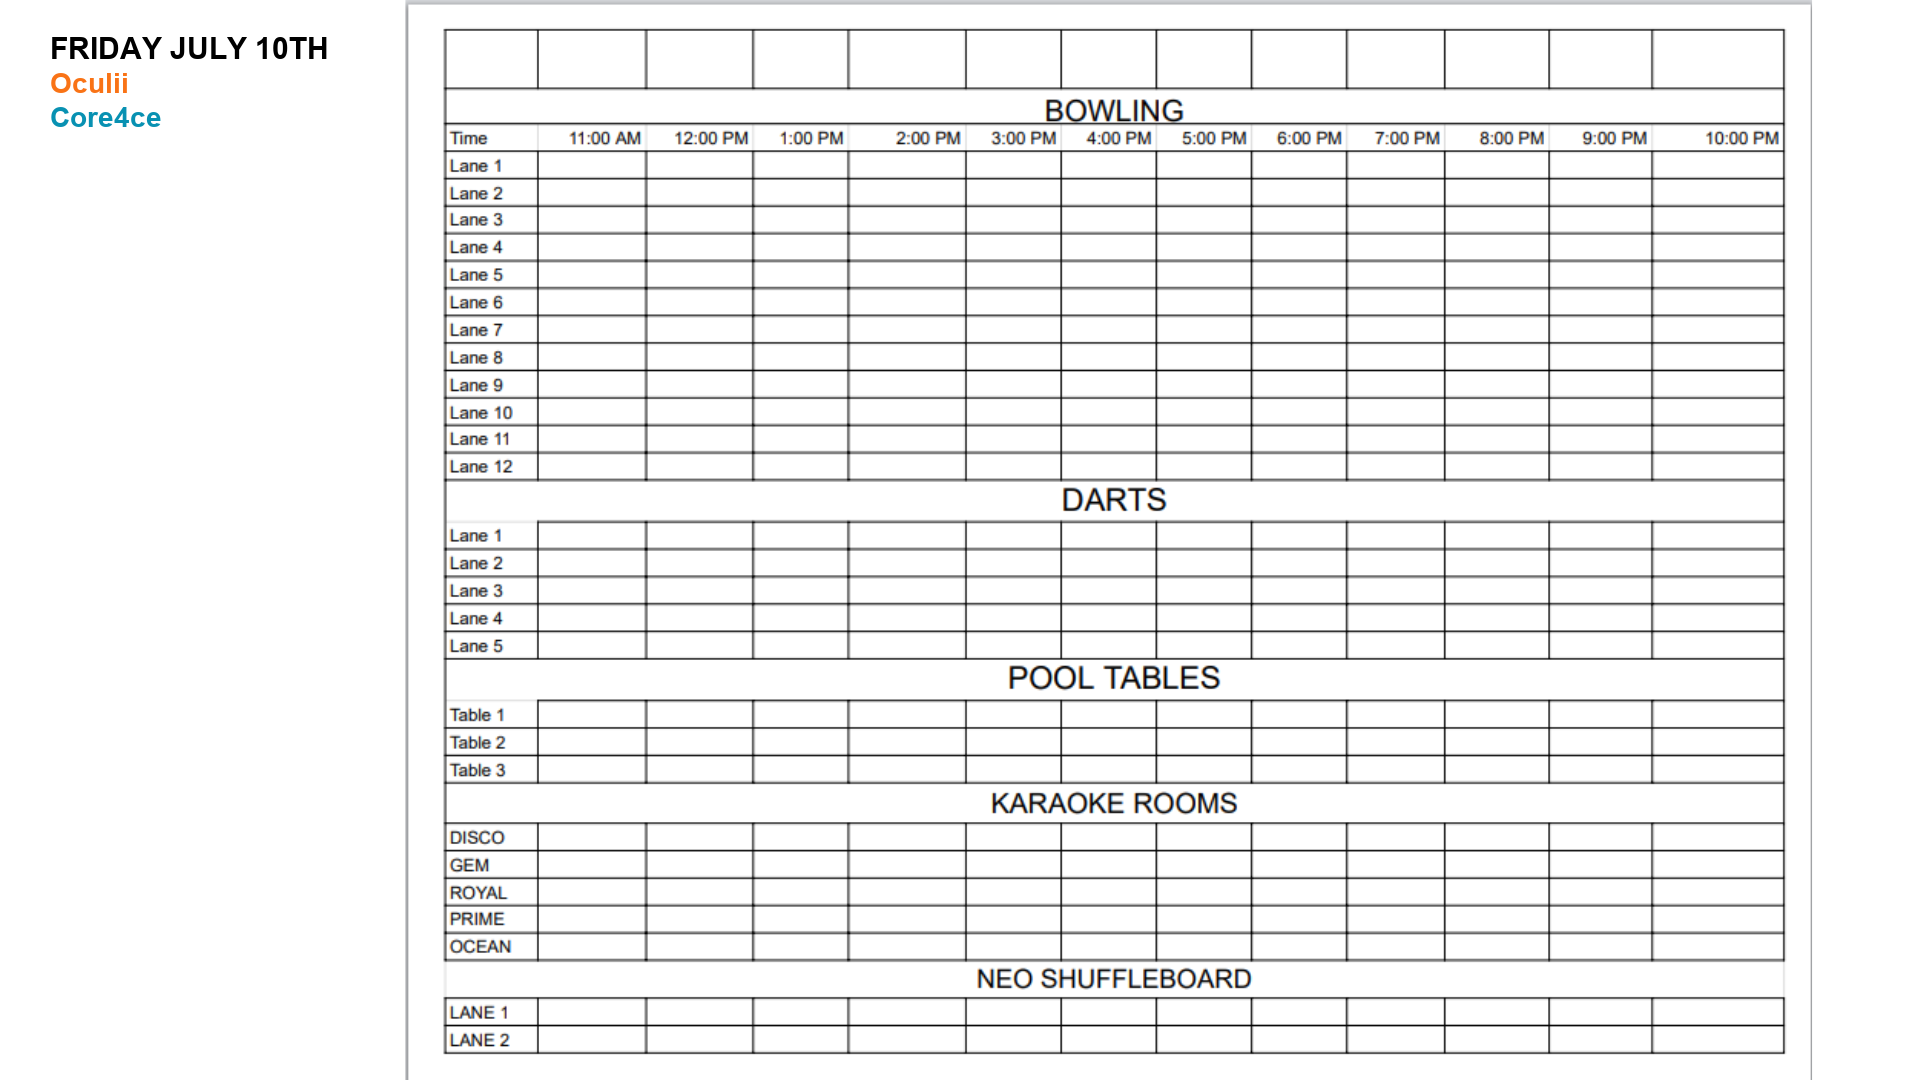
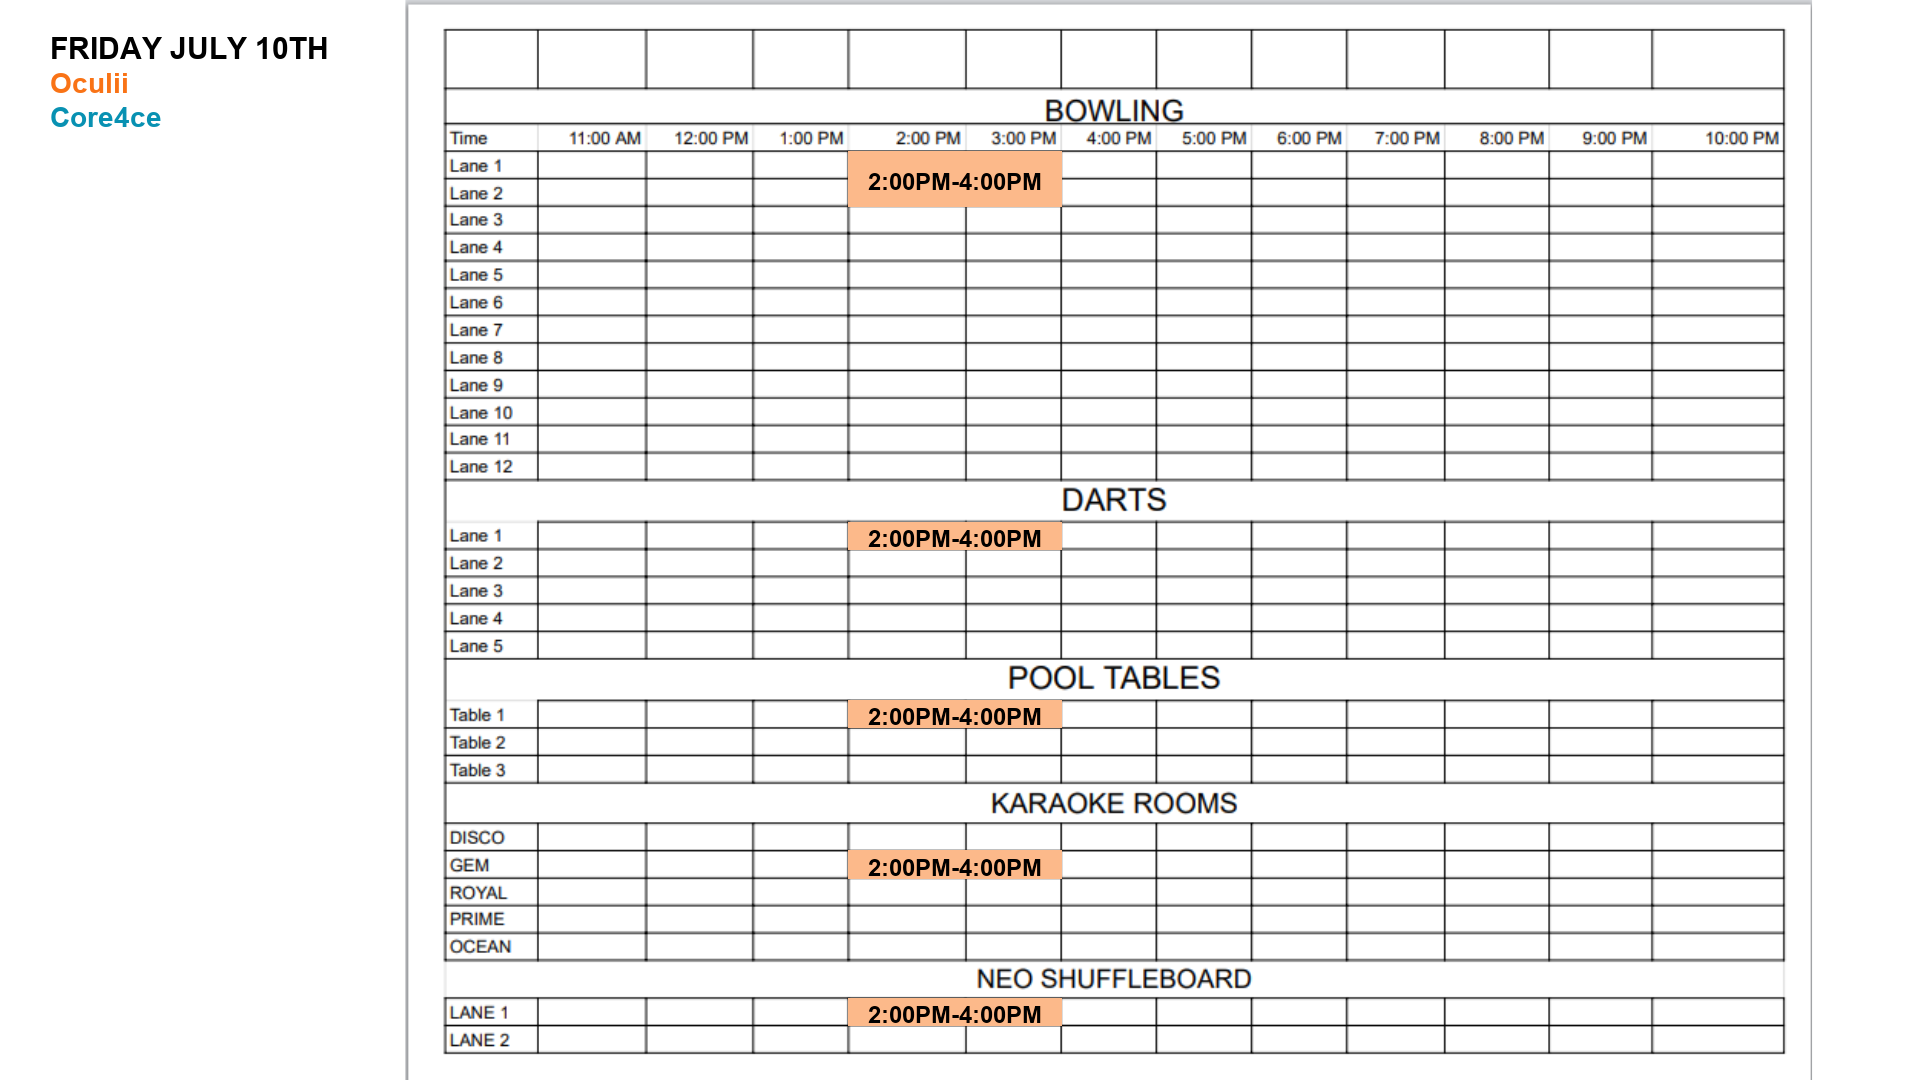
Update July 10 Oculii and Core4ce host assets

diff --git a/docs/on-par-events-knowledge-base.md b/docs/on-par-events-knowledge-base.md
@@ -770,21 +770,21 @@ This matrix summarizes the current deployable event data. Always re-check Triple
 
 - Date/time: Friday, July 10, 2026, 2:00 PM - 4:00 PM
 - Guests: 23
-- Area: VIP 1
+- Area: VIP 2
 - Food:
   - Veggie Tray
 - Drinks:
   - No drink package listed on extracted BEO
 - Entertainment:
-  - Darts, 1 lane, Time not listed on BEO, 2 hours
-  - Duckpin Bowling, 2 lanes, Time not listed on BEO, 2 hours
-  - Pool Table, 1 table, Time not listed on BEO, 2 hours
-  - Neo Shuffleboard, 1 table, Time not listed on BEO, 2 hours
-  - Gem Room, 1 room, Time not listed on BEO, 2 hours
+  - Darts, 1 lane, 2:00 PM - 4:00 PM, 2 hours
+  - Duckpin Bowling, 2 lanes, 2:00 PM - 4:00 PM, 2 hours
+  - Pool Table, 1 table, 2:00 PM - 4:00 PM, 2 hours
+  - Neo Shuffleboard, 1 table, 2:00 PM - 4:00 PM, 2 hours
+  - Gem Room, 1 room, 2:00 PM - 4:00 PM, 2 hours
   - Mini Golf, 18 guests, Untimed, All 3 courses
 - Floor-plan interpretation:
-  - Highlight VIP 1 full support seating and 1 VIP food table.
-  - Highlight darts lane 1, bowling lanes 1-2, pool table 1, shuffleboard table 1, and Gem Room with 2-hour labels.
+  - Highlight VIP 2 with its bowling-side support table and 1 VIP food table.
+  - Highlight darts lane 1, bowling lanes 1-2, pool table 1, shuffleboard table 1, and Gem Room with 2:00 PM - 4:00 PM labels.
   - Mini golf is untimed.
 - Verification: BEO checked above billing section.
 
@@ -792,7 +792,7 @@ This matrix summarizes the current deployable event data. Always re-check Triple
 
 - Date/time: Friday, July 10, 2026, 5:30 PM - 7:30 PM
 - Guests: 82
-- Areas: VIP 1, VIP 2
+- Area: VIP 1
 - Food:
   - The Front Nine | TACO BAR - Food Only
 - Drinks:
@@ -805,9 +805,9 @@ This matrix summarizes the current deployable event data. Always re-check Triple
   - Neo Shuffleboard, 1 table, Time not listed on BEO, 2 hours
 - Special instructions:
   - API guest count is blank; using the 82-person food package quantity from the BEO for planning.
-  - VIP 1 and VIP 2 do not provide seated capacity for 82 guests; confirm overflow approach if operations needs a full seating map.
+  - VIP 1 support seating does not provide seated capacity for 82 guests; confirm overflow approach if operations needs a full seating map.
 - Floor-plan interpretation:
-  - Highlight VIP 1 and VIP 2 support seating plus one VIP food table.
+  - Highlight VIP 1 full support seating and surrounding tables plus one VIP food table.
   - Highlight darts lanes 1-3, all 12 bowling lanes, pool tables 1-2, and shuffleboard table 1 with 2-hour labels.
   - Mini golf is untimed; guest quantity exceeds the listed room seating footprint and should remain flagged.
 - Verification: BEO checked above billing section; guest count inferred from BEO food quantity and seating-capacity mismatch flagged.
